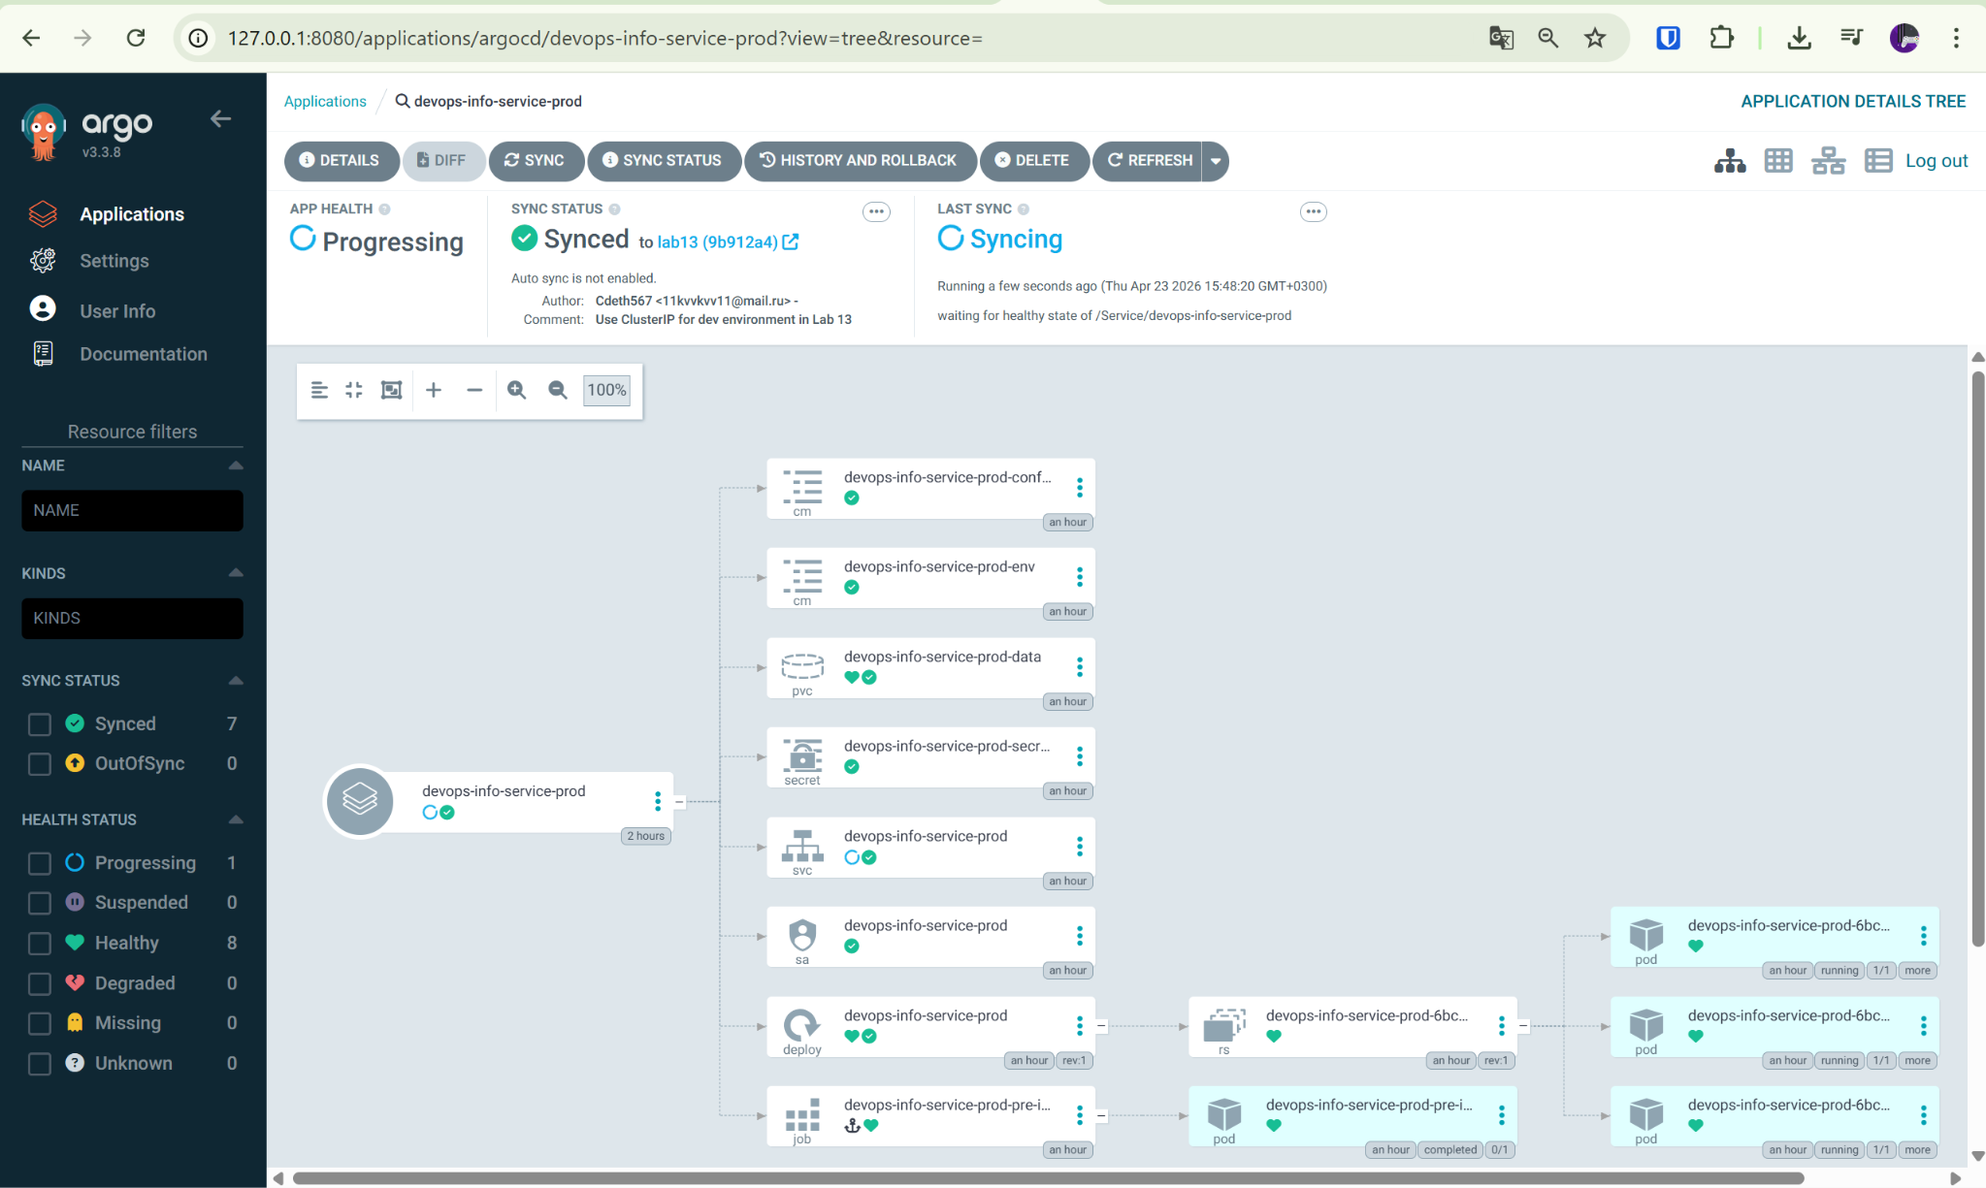
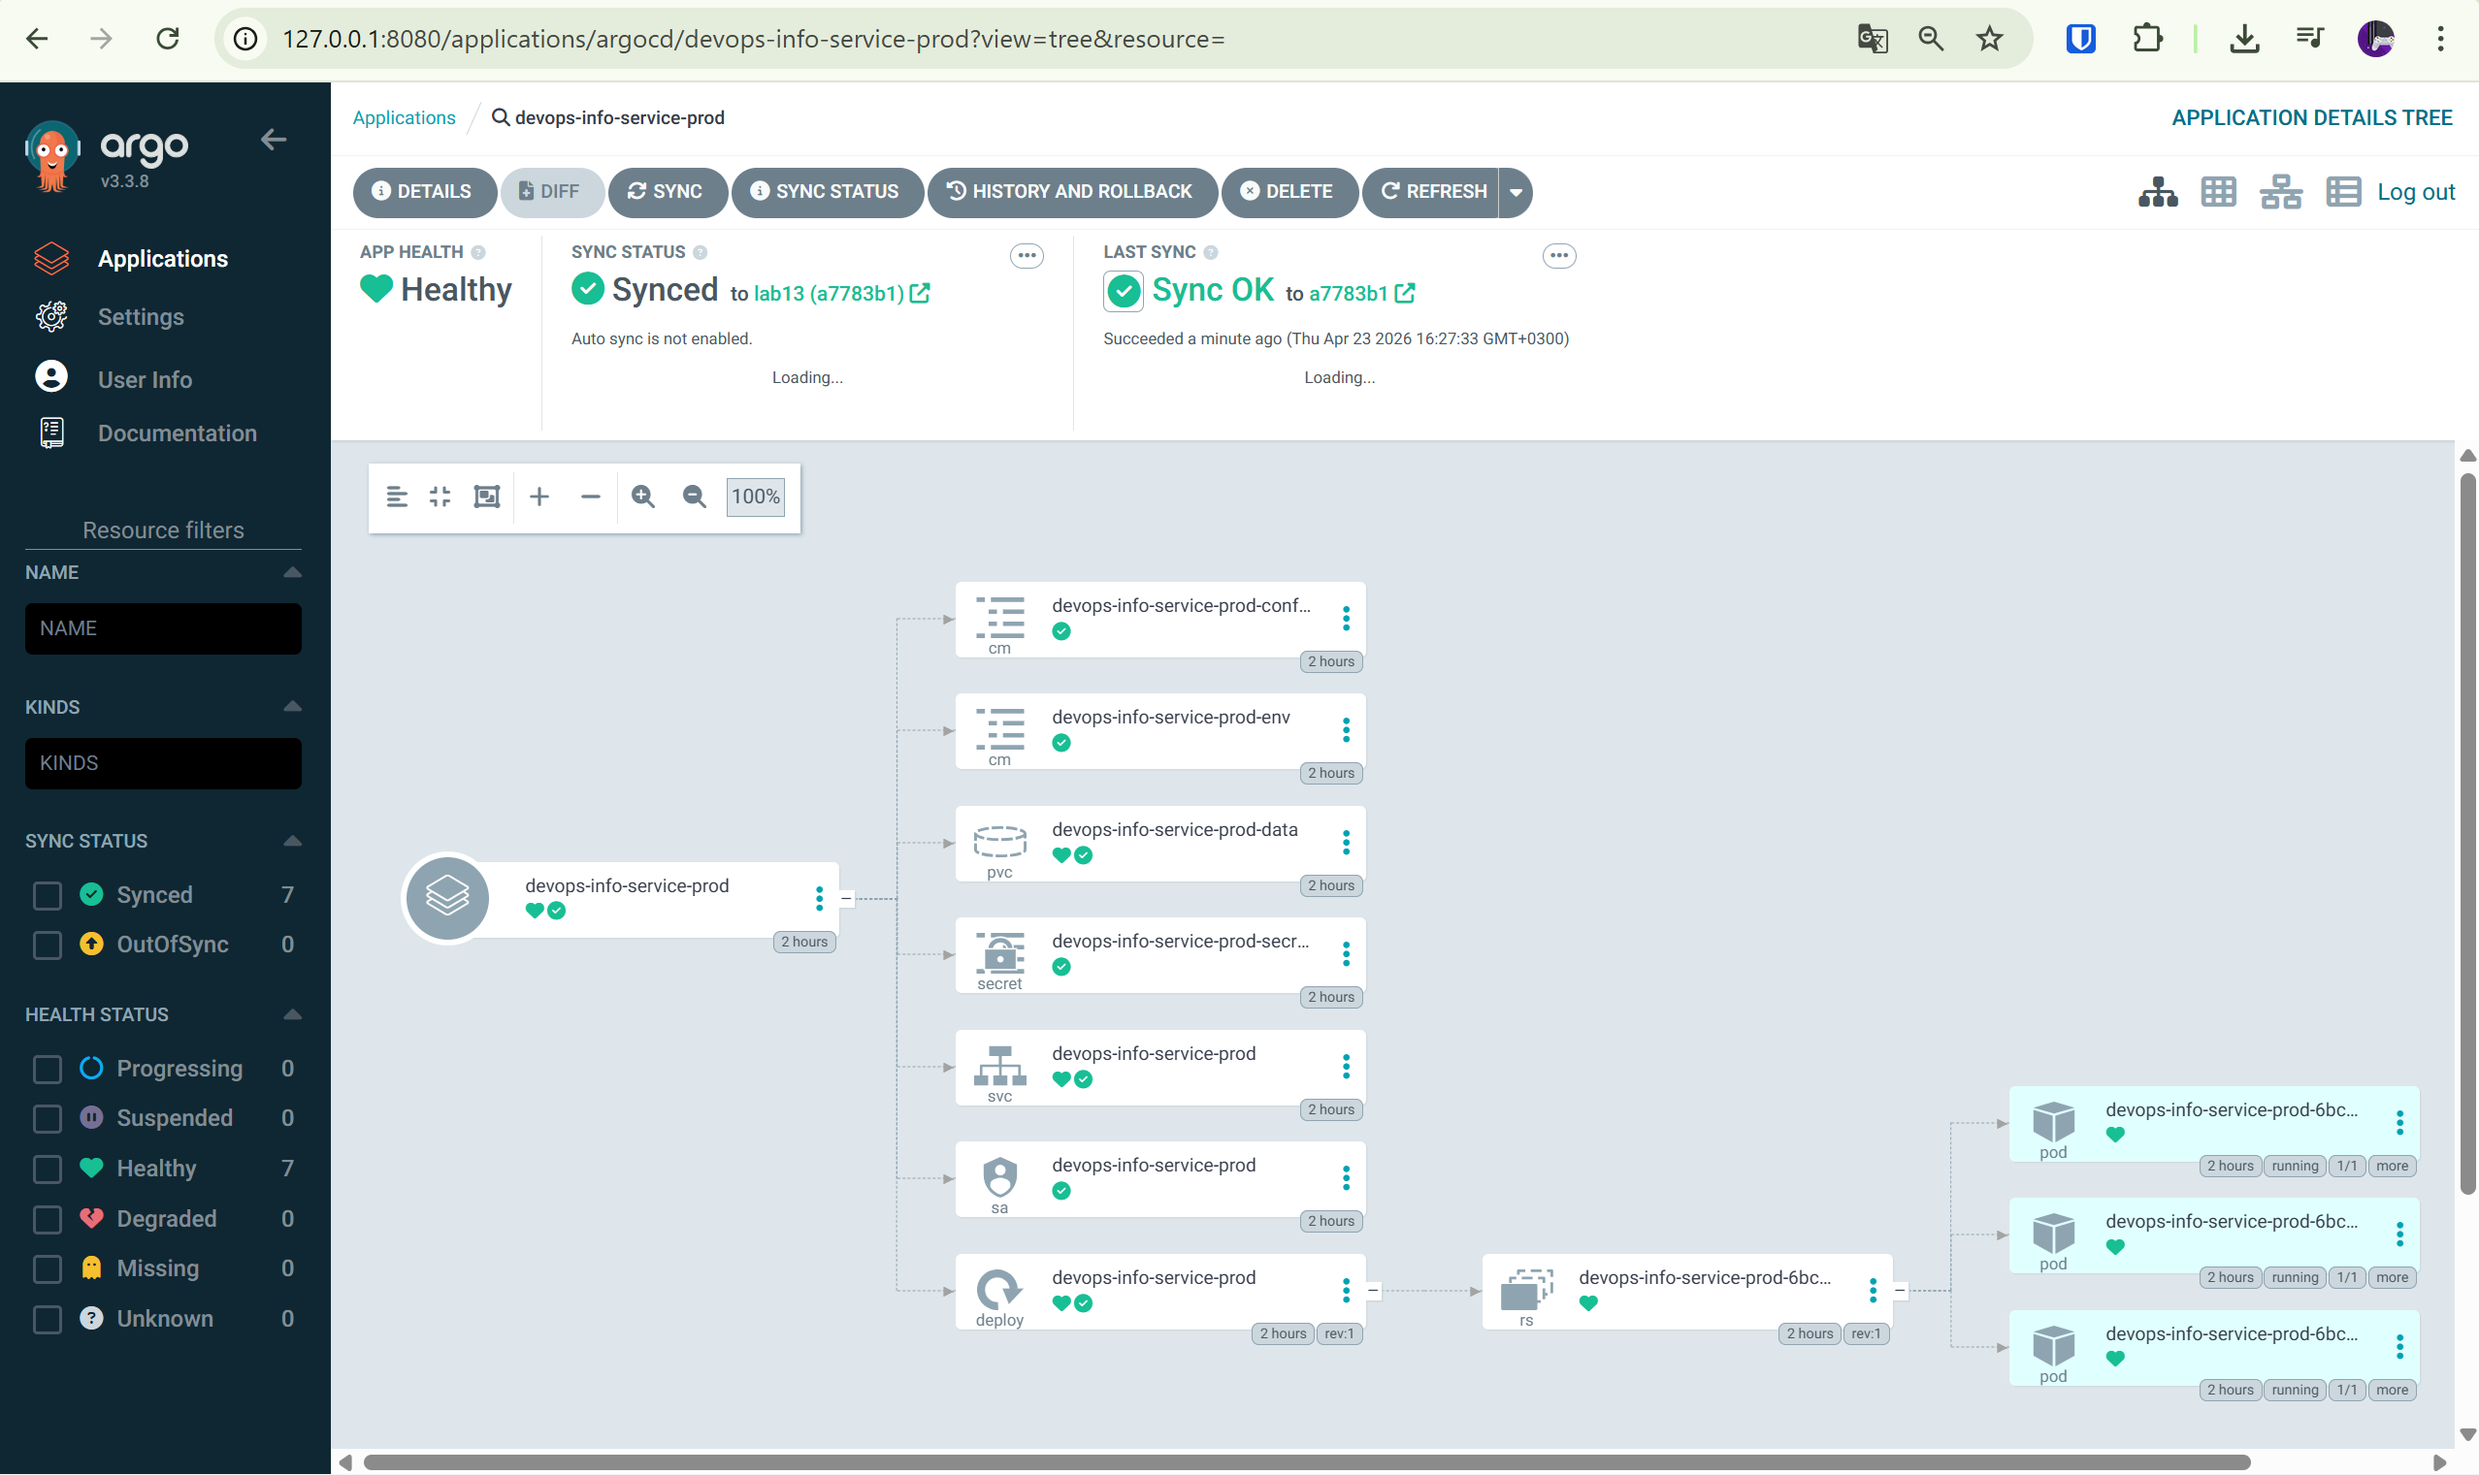
Lab 13 completed

diff --git a/k8s/ARGOCD.md b/k8s/ARGOCD.md
@@ -19,8 +19,6 @@ All mandatory technical requirements from the assignment were completed:
 - pod deletion behavior was tested
 - configuration drift was tested
 
-Bonus Task was **not implemented**.
-
 ---
 
 ## 1. ArgoCD Setup
